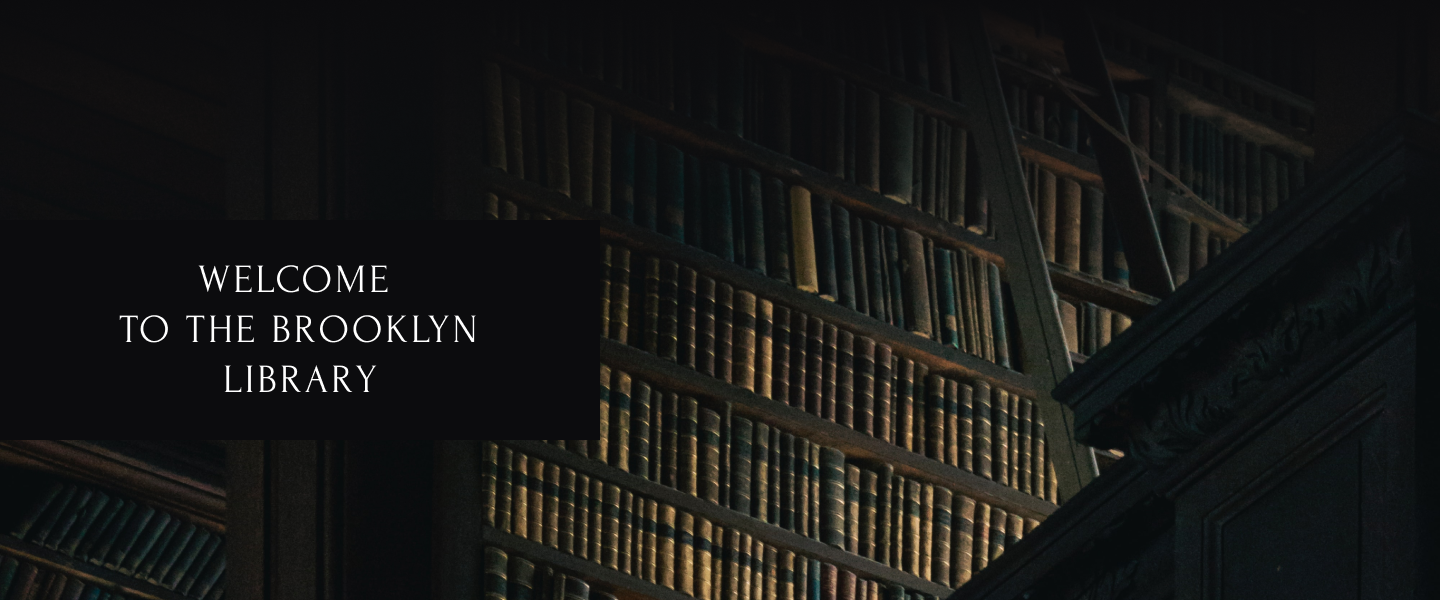
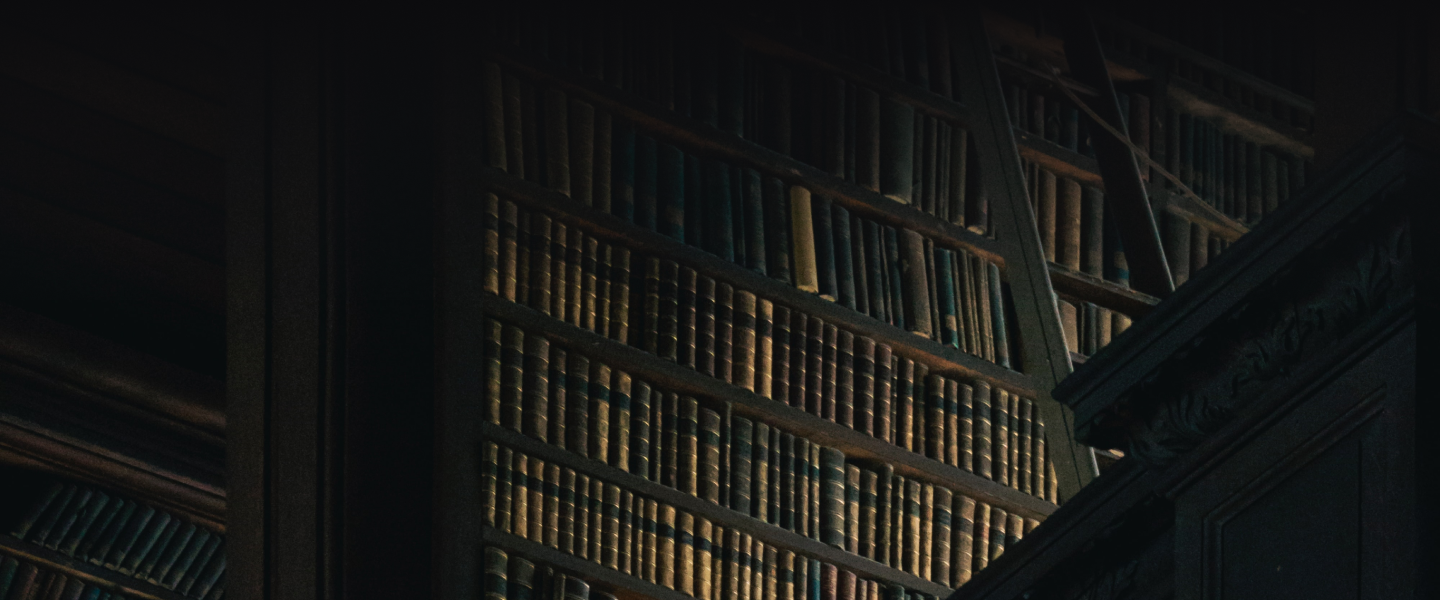
faat: add teting mixin, fix welcome section and welcome background

diff --git a/sass/style.css b/sass/style.css
@@ -418,25 +418,24 @@ body {
 
 h1 {
   font-family: "Forum", Verdana, sans-serif;
-  color: #d92121;
+  color: #FFFFFF;
   text-align: center;
   font-family: Forum;
   font-size: 40px;
   font-style: normal;
   font-weight: 400;
   line-height: 50px; /* 125% */
-  letter-spacing: 3px;
-  text-transform: uppercase;
+  letter-spacing: 0.6px;
 }
 
 h2 {
   font-family: "Forum", Verdana, sans-serif;
-  font-size: 40px;
+  letter-spacing: 2px;
+  text-transform: capitalize;
+  font-size: 41px;
   font-style: normal;
   font-weight: 400;
   line-height: 40px; /* 100% */
-  letter-spacing: 2px;
-  text-transform: capitalize;
 }
 
 h3 {
@@ -482,13 +481,17 @@ a:link, a:visited, a:active {
 
 header {
   background-color: #0C0C0E;
-  padding: 20px 0 20px 0;
 }
 
 .header__wrapper {
   display: flex;
   align-items: center;
   justify-content: space-between;
+}
+
+.header__title {
+  margin: 0;
+  padding: 0 0 0 20px;
 }
 
 .navigation {
@@ -510,8 +513,17 @@ header {
   color: #FFFFFF;
 }
 
+.header__icon-profile-hamburger {
+  padding: 31px 20px 31px 0;
+}
+
 .welcome__wrapper {
   display: flex;
+  flex-wrap: wrap;
+  flex-direction: row;
+  justify-content: flex-start;
+  align-content: center;
+  background: linear-gradient(180deg, #0C0C0E 0%, #0C0C0E 0.01%, rgba(18, 18, 21, 0.1) 100%);
   background-image: url(../assets/img/welcome.png);
   width: 1440px;
   height: 600px;
@@ -521,10 +533,7 @@ header {
   display: flex;
   width: 600px;
   height: 220px;
-  padding: 35px 40px;
-  justify-content: center;
   align-items: center;
-  flex-shrink: 0;
   background-color: #0C0C0E;
 }
 
@@ -538,6 +547,7 @@ header {
   font-weight: 400;
   line-height: 50px; /* 125% */
   letter-spacing: 3px;
+  padding: 35px 40px;
 }
 
 .about__wrapper {

diff --git a/sass/components/_welcome.scss b/sass/components/_welcome.scss
@@ -1,8 +1,15 @@
 .welcome__wrapper{
 	display: flex;
+	flex-wrap: wrap;
+	flex-direction: row;
+	justify-content: flex-start;
+	align-content: center;
+
+	background: linear-gradient(180deg, #0C0C0E 0%, #0C0C0E 0.01%, rgba(18, 18, 21, 0.10) 100%);
 	background-image: url(../assets/img/welcome.png);
 	width: 1440px;
 	height: 600px;
+	
 	
 }
 
@@ -10,14 +17,13 @@
 	display: flex;
 	width: 600px;
 	height: 220px;
-	padding: 35px 40px;
-	justify-content: center;
 	align-items: center;
-	flex-shrink: 0;
 	background-color: $color-headers;
+	
 }
 
 .welcome__text{
+	
 	color: $color-text-additional;
 	text-align: center;
 	text-transform: uppercase;
@@ -27,5 +33,7 @@
 	font-weight: 400;
 	line-height: 50px; /* 125% */
 	letter-spacing: 3px;
+	padding: 35px 40px;
+	
 }
 

diff --git a/sass/base/_base.scss b/sass/base/_base.scss
@@ -11,26 +11,25 @@ body {
 
 h1 {
 	font-family: 'Forum', Verdana, sans-serif;
-	color: #d92121;
+	color: $color-text-additional;
 	text-align: center;
 	font-family: Forum;
 	font-size: 40px;
 	font-style: normal;
 	font-weight: 400;
 	line-height: 50px; /* 125% */
-	letter-spacing: 3px;
-	text-transform: uppercase;
+	letter-spacing: 0.6px;
+	
 }
 
 h2{
 	font-family: 'Forum', Verdana, sans-serif;
-	font-size: 40px;
-	font-style: normal;
-	font-weight: 400;
-	line-height: 40px; /* 100% */
+	
 	letter-spacing: 2px;
 	text-transform: capitalize;
 
+	@include font(41px, 400, 40px); //using mixins
+	
 }
 h3 {
 	text-align: center;

diff --git a/sass/components/_header.scss b/sass/components/_header.scss
@@ -1,13 +1,18 @@
 header {
 	background-color: $color-headers;
-	padding: 20px 0 20px 0;
-	
+		
 }
 
 .header__wrapper{
 	display: flex; //place 3 div-block in row
 	align-items: center; //выравниваем по центру
 	justify-content: space-between;
+}
+
+.header__title{
+	margin: 0;
+	padding: 0 0 0 20px;
+		
 }
 
 .navigation{	
@@ -29,4 +34,7 @@ header {
 
 .navigation__link{
 	color: $color-text-additional;
+}
+.header__icon-profile-hamburger{
+	padding: 31px 20px 31px 0;
 }

diff --git a/index.html b/index.html
@@ -33,10 +33,10 @@
 	<main>
 		<section class="welcome">
 			<div class="wrapper welcome__wrapper">
-				<div class="welcome__overlay"><img src="assets/overlay.png" alt="overlay"></div>
 				<div class="welcome__title">
-					<p class="welcome__text">Welcome to the brooklyn library</p>
+					<p class="welcome__text">Welcome <br> to the brooklyn library</p>
 				</div>
+			
 			</div>
 		</section>
 		

diff --git a/sass/abstract/_mixins.scss b/sass/abstract/_mixins.scss
@@ -1,0 +1,6 @@
+@mixin font($size, $weight, $height, $style: normal){ //we can not send here last parameter, so :normal would set by default
+	font-size: $size;
+	font-style: $style;
+	font-weight: $weight;
+	line-height: $height; /* 100% */
+}

diff --git a/sass/style.scss b/sass/style.scss
@@ -1,9 +1,11 @@
 //@import "normalize/import-now"; - for version from site
 
 @import "base/normalize";
+
 //abstract
 @import "abstract/constants";
 @import "abstract/placeholders";
+@import "abstract/mixins";
 
 
 @import "layouts/wrapper";

diff --git a/sass/base/_normalize.scss b/sass/base/_normalize.scss
@@ -583,5 +583,5 @@ ul {
 }
 
 * {
-  box-sizing: border-box;
+  box-sizing: border-box; 
 }
